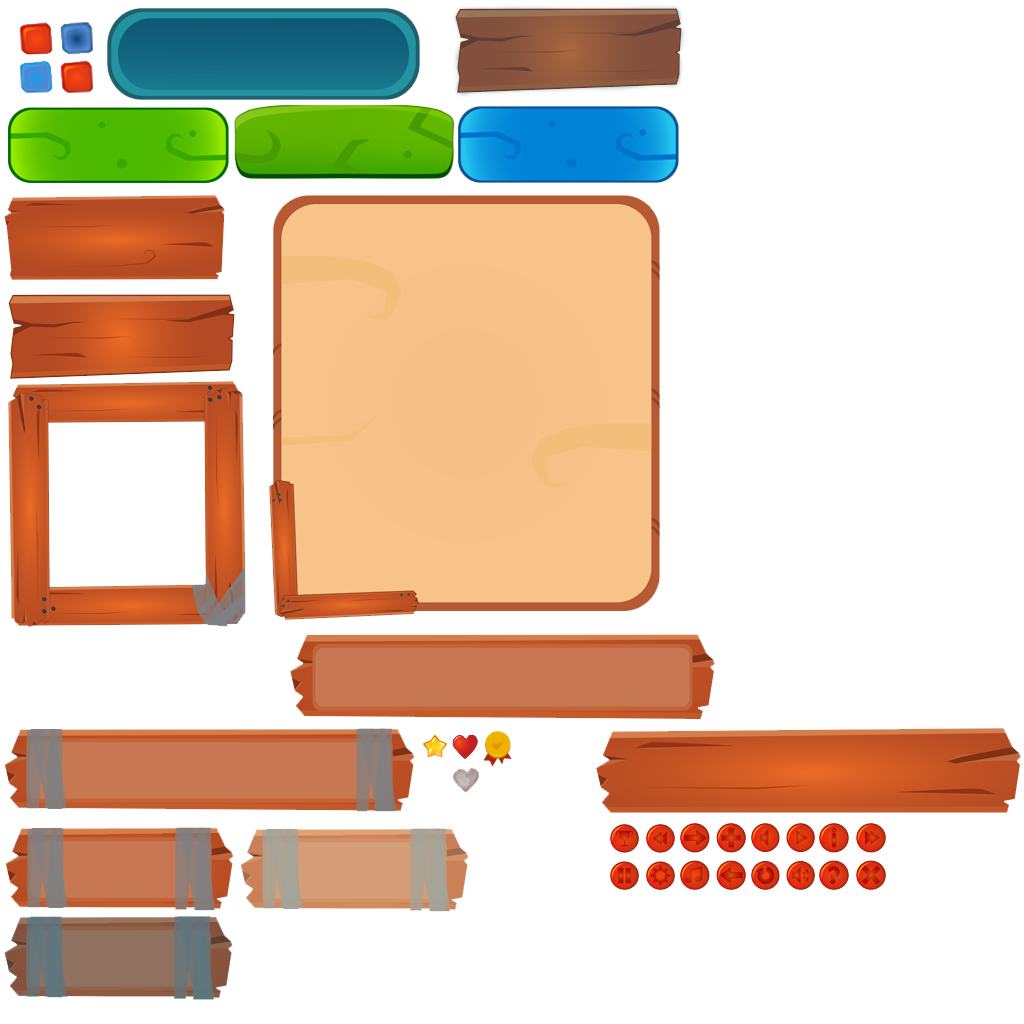
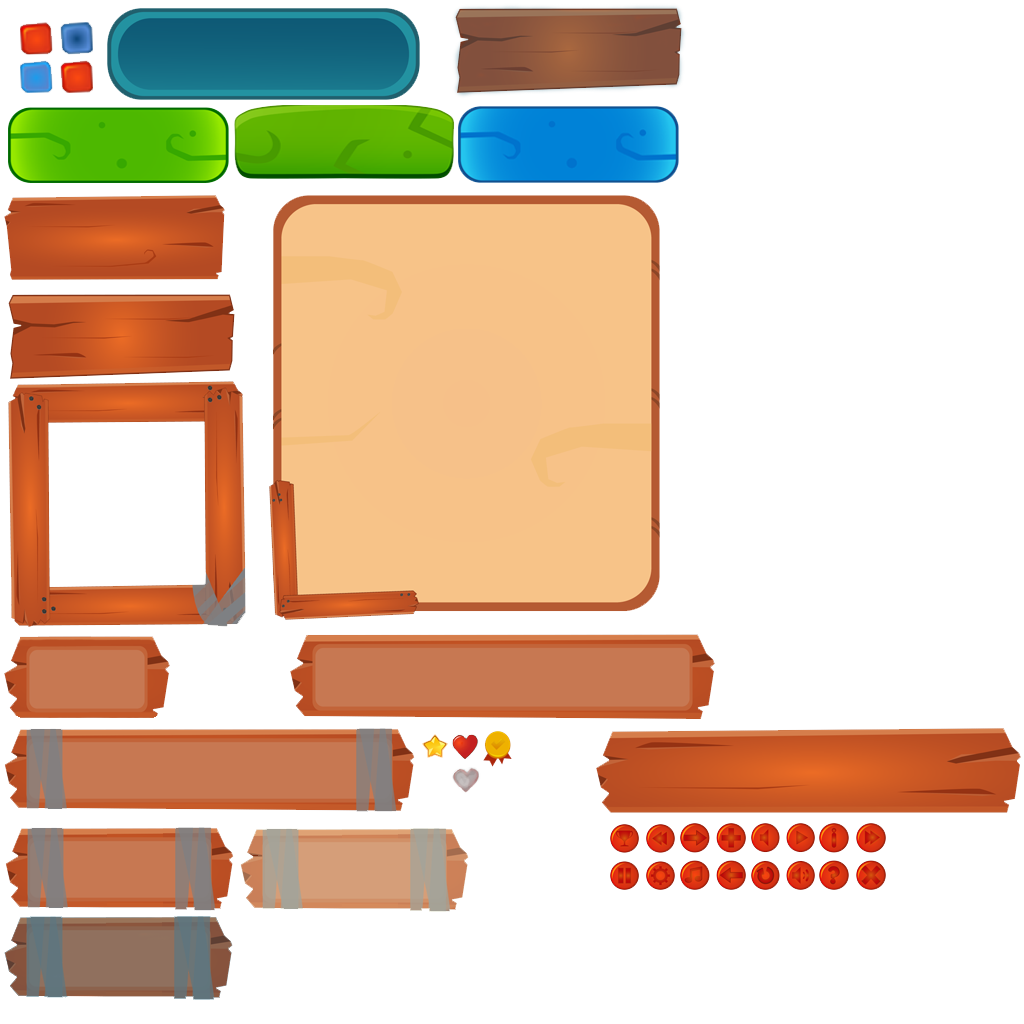
Fixed UI

Changed region(s): [[0.0, 0.5938, 0.1875, 0.7188]]

diff --git a/Motor2D/Motor2D/j1MainMenu.cpp b/Motor2D/Motor2D/j1MainMenu.cpp
@@ -168,6 +168,14 @@ bool j1MainMenu::Start()
 	close_credits_button->box = { 345,18,33,32 };
 	credits_window->AddChild(close_credits_button, 20);
 
+	//OpenWeb
+	openWeb = (UI_Button*)App->gui->GenerateUI_Element(UI_TYPE::BUTTON);
+	openWeb->SetTextures_button(UI_Button::BUTTON_STATE::ON, close_button_on);
+	openWeb->SetTextures_button(UI_Button::BUTTON_STATE::OFF, close_button_off);
+	openWeb->SetTextures_button(UI_Button::BUTTON_STATE::OVER, close_button_over);
+	openWeb->box = { 200,18,33,32 };
+	credits_window->AddChild(openWeb, 20);
+
 	//AddChilds
 	mainscene->AddChild(button, 30);
 	mainscene->AddChild(button2, 30);
@@ -267,6 +275,12 @@ bool j1MainMenu::Update(float dt)
 		credits_window->Desactivate();
 		close_credits_button->Desactivate();
 		close_credits_button->button_state = UI_Button::BUTTON_STATE::OFF;
+	}
+
+	if (openWeb->button_state == UI_Button::BUTTON_STATE::ON)
+	{
+		ShellExecuteA(NULL, "open", "https://elliotjb.github.io/DEV-S.E/", NULL, NULL, SW_SHOWNORMAL);
+		openWeb->button_state = UI_Button::BUTTON_STATE::OFF;
 	}
 
 

diff --git a/Motor2D/Motor2D/j1Scene.cpp b/Motor2D/Motor2D/j1Scene.cpp
@@ -147,6 +147,19 @@ void j1Scene::LoadUi()
 	S_imgSave->SetString("Save");
 	O_imgSave->AddChild(S_imgSave, 10);
 
+	clock = (Ui_img*)App->gui->GenerateUI_Element(UI_TYPE::IMG);
+	clock->SetTextureRect({ 2, 634, 170, 87 });
+	clock->AdjustBox();
+	clock->Activate();
+	clock->box = { 430,20,20,20 };
+	mainscene->AddChild(clock, 60);
+	clocktime = (UI_String*)App->gui->GenerateUI_Element(UI_TYPE::STRING);
+	clocktime->Activate();
+	clocktime->setText_Font(App->font->font_Title);
+	clocktime->MoveBox(50, 20);
+	clocktime->SetString("00:00");
+	clock->AddChild(clocktime, 10);
+
 
 
 	numlifesactive = PlayerLifes;
@@ -306,6 +319,10 @@ bool j1Scene::PostUpdate()
 
 	if (O_imgButtonReturn->button_state == UI_Button::BUTTON_STATE::ON)
 	{
+		O_imgButtonReturn->Desactivate();
+		O_imgLoad->Desactivate();
+		O_imgSave->Desactivate();
+		settingOpen = false;
 		O_imgButtonReturn->button_state = UI_Button::BUTTON_STATE::OFF;
 		O_imgLoad->button_state = UI_Button::BUTTON_STATE::OFF;
 		O_imgSave->button_state = UI_Button::BUTTON_STATE::OFF;

diff --git a/Motor2D/Motor2D/j1Scene.h b/Motor2D/Motor2D/j1Scene.h
@@ -72,6 +72,12 @@ private:
 	UI_String*		S_imgLoad = nullptr;
 	UI_Button*		O_imgSave = nullptr;
 	UI_String*		S_imgSave = nullptr;
+	
+
+	Ui_img*			clock = nullptr;
+	UI_String*		clocktime = nullptr;
+
+	//2-634-170-87 
 };
 
 #endif // __j1SCENE_H__

diff --git a/Motor2D/Motor2D/j1MainMenu.h b/Motor2D/Motor2D/j1MainMenu.h
@@ -79,6 +79,8 @@ public:
 
 	//Credits Window
 	Ui_img*		   credits_window = nullptr;
+	UI_Button*     openWeb = nullptr;
+
 };
 
 #endif
